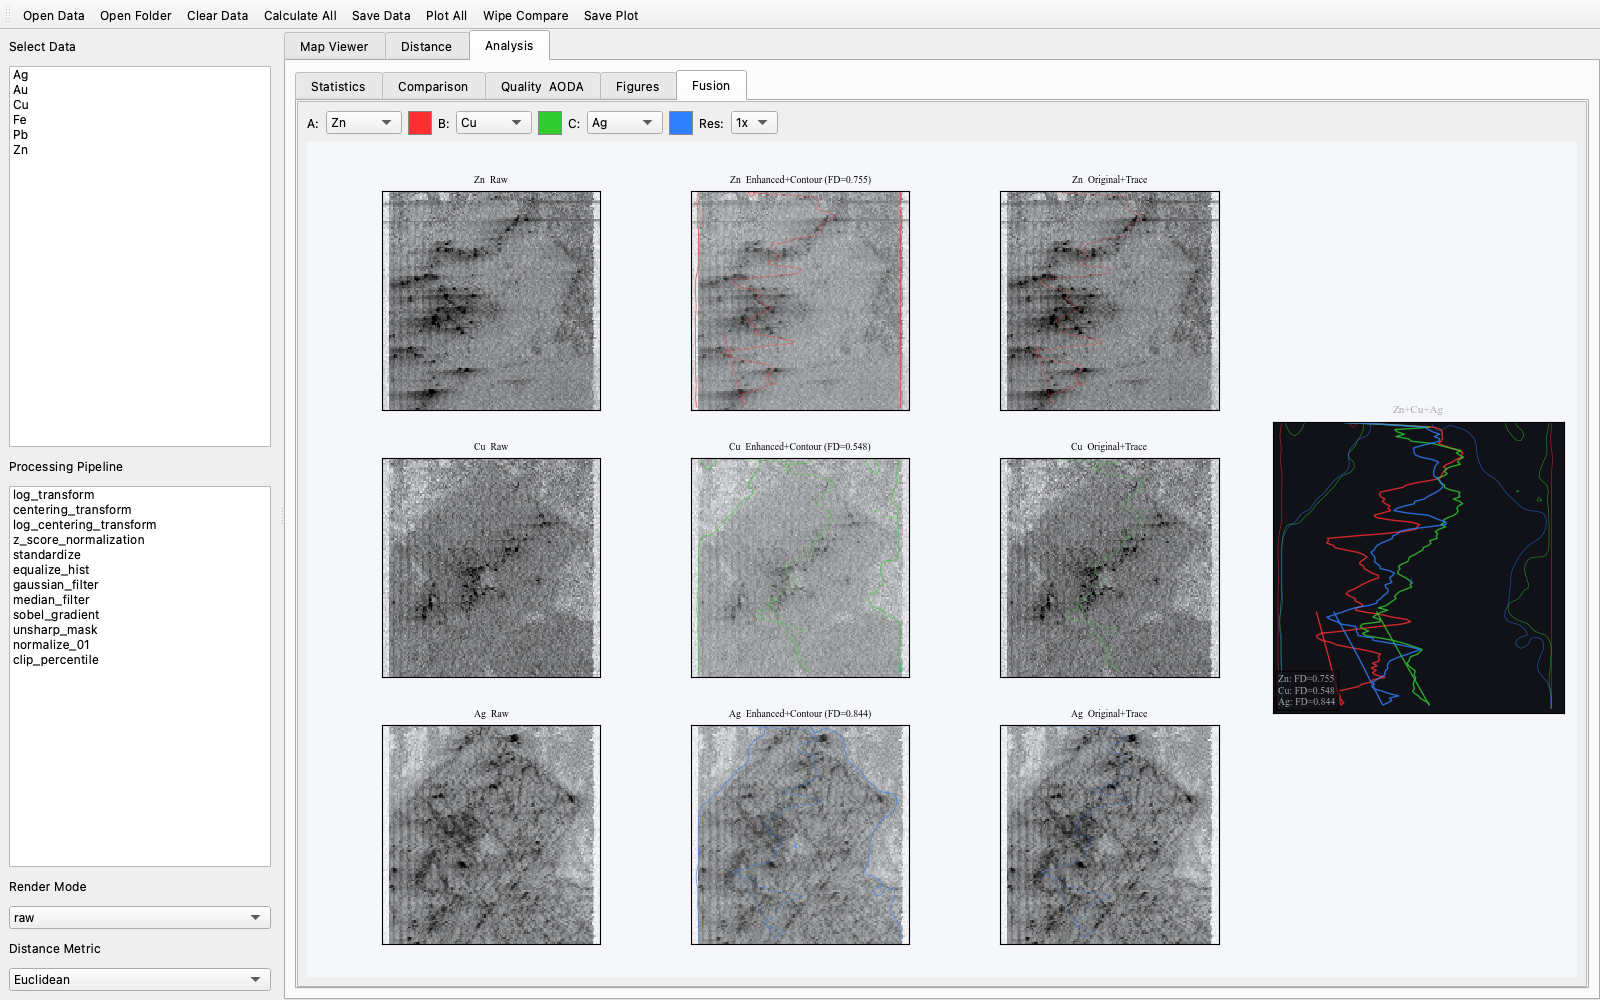
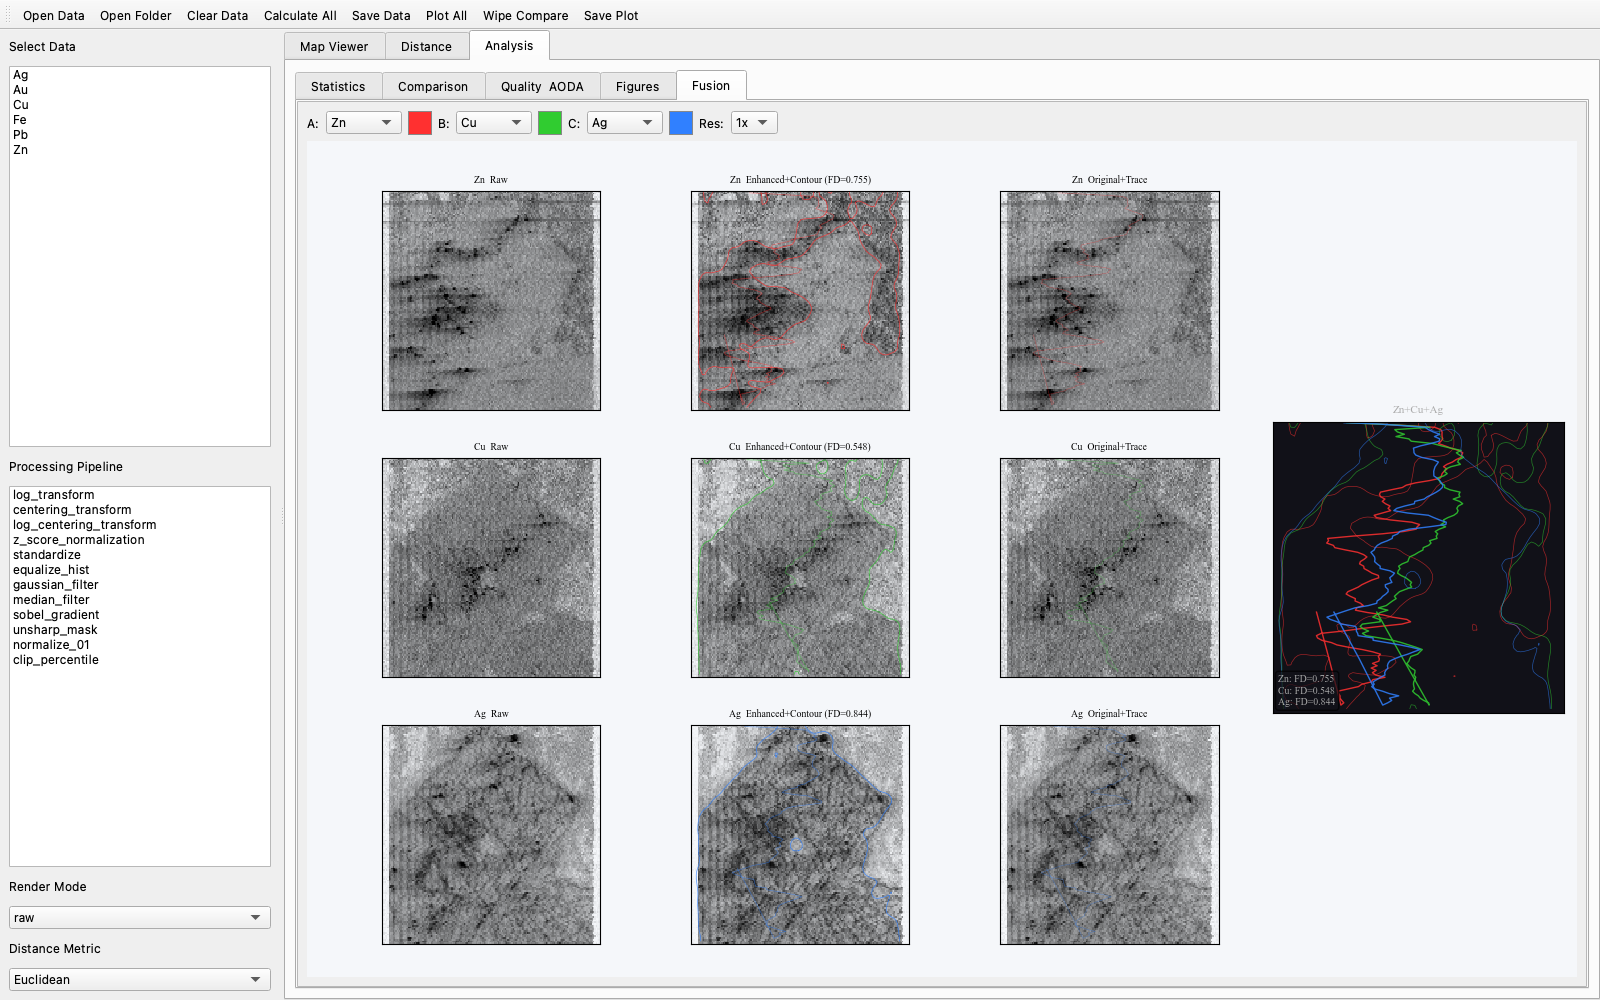
v1.6.6: Fusion - contour coords in V-space (zoom-proof) + log+equalize mid column
- Contours stored in V-space coords, scaled with zoom factor correctly
- Trajectory coords also zoom-scaled
- Middle column: log_transform + equalize_hist (paper's best pipeline)

diff --git a/cpsvisualizer/src/cpsvisualizer/app.py b/cpsvisualizer/src/cpsvisualizer/app.py
@@ -737,7 +737,7 @@ class CPSVisualizer(QMainWindow):
         if len(self.df_name_list) >= 2 and not self._fus_picks[1].currentText():
             self._fus_picks[1].setCurrentIndex(1)
     def _render_fusion(self):
-        from cpsvisualizer.core import log_transform
+        from cpsvisualizer.core import log_transform, equalize_hist
         from scipy.ndimage import sobel, gaussian_filter, zoom
         import re
         zf = int(self._fus_res.currentText().replace('x', ''))
@@ -753,16 +753,25 @@ class CPSVisualizer(QMainWindow):
                 else: break
             data = self.df_list[self.df_name_list.index(nm)].to_numpy().copy()
             raw = np.nan_to_num(data.astype(float), nan=0, posinf=0, neginf=0)
-            V = log_transform(raw)
+            # middle column enhancement: log + equalize (paper's best)
+            V = equalize_hist(log_transform(raw))
             V = (V - V.min()) / (V.max() - V.min() + 1e-10)
+            # Otsu contours on downsampled V, then convert to V-space coords
             from skimage.filters import threshold_otsu
             from skimage.measure import find_contours
             from scipy.ndimage import gaussian_filter as gf
-            ds_small = _downsample(V, 80, 80)
-            thresh = threshold_otsu(ds_small)
-            binary = (ds_small > thresh).astype(np.float64)
+            ds = _downsample(V, 80, 80)
+            thresh = threshold_otsu(ds)
+            binary = (ds > thresh).astype(np.float64)
             binary_sm = gf(binary, sigma=1.5)
-            contours = find_contours(binary_sm, level=0.5)
+            contours_ds = find_contours(binary_sm, level=0.5)
+            # convert to V-space coords (so zoom doesn't break them)
+            contours_v = []
+            for cnt in contours_ds:
+                cx = cnt[:, 1] * (V.shape[1] / ds.shape[1])
+                cy = cnt[:, 0] * (V.shape[0] / ds.shape[0])
+                contours_v.append(np.column_stack([cx, cy]))
+            # structural edges
             d2 = gaussian_filter(raw, sigma=1.0)
             E = np.hypot(sobel(d2, axis=0), sobel(d2, axis=1))
             E = (E - E.min()) / (E.max() - E.min() + 1e-10)
@@ -770,11 +779,14 @@ class CPSVisualizer(QMainWindow):
             if zf > 1:
                 raw = zoom(raw, zf, order=3); V = zoom(V, zf, order=3)
                 E = zoom(E, zf, order=3)
+                # scale contours & trace to match zoomed V
+                for c in contours_v:
+                    c[:, 0] *= zf; c[:, 1] *= zf
+                tx *= zf; ty *= zf
             self._fus_rows.append({
                 'name': nm, 'raw': raw, 'V': V, 'E': E,
                 'tx': tx, 'ty': ty, 'fd': fd,
-                'contours': contours, 'ds_h': ds_small.shape[0],
-                'ds_w': ds_small.shape[1],
+                'contours_v': contours_v,
             })
         self._render_fusion_display()
     def _compute_trajectory(self, data):
@@ -824,7 +836,7 @@ class CPSVisualizer(QMainWindow):
         colors = self._fus_colors
         for row_i in range(n_rows):
             r = self._fus_rows[row_i]
-            line_color = colors[row_i]
+            col = colors[row_i]
             for col_j in range(3):
                 ax = fig.add_subplot(gs[row_i, col_j])
                 ax.set_facecolor(FIG_BG)
@@ -838,31 +850,32 @@ class CPSVisualizer(QMainWindow):
                     arr_disp = _downsample(s, 180, 180)
                     ax.imshow(arr_disp, cmap=ink_colormap(), vmin=lo, vmax=hi,
                               aspect='auto', interpolation='nearest')
-                    sx = arr_disp.shape[1] / r['ds_w']
-                    sy = arr_disp.shape[0] / r['ds_h']
-                    for cnt in r['contours']:
-                        ax.plot(cnt[:, 1]*sx, cnt[:, 0]*sy,
-                                color=line_color, linewidth=0.6, alpha=0.7)
+                    # contours in V-space, scale to arr_disp
+                    sx = arr_disp.shape[1] / r['V'].shape[1]
+                    sy = arr_disp.shape[0] / r['V'].shape[0]
+                    for cnt in r['contours_v']:
+                        ax.plot(cnt[:, 0] * sx, cnt[:, 1] * sy,
+                                color=col, linewidth=0.5, alpha=0.85)
                     if len(r['tx']) > 2:
-                        tx_s = r['tx']*(arr_disp.shape[1]/r['V'].shape[1])
-                        ty_s = r['ty']*(arr_disp.shape[0]/r['V'].shape[0])
-                        ax.plot(tx_s, ty_s, color=line_color, linewidth=0.5, alpha=0.5)
+                        tx_s = r['tx'] * sx; ty_s = r['ty'] * sy
+                        ax.plot(tx_s, ty_s, color=col, linewidth=0.5, alpha=0.5)
                 else:
                     s, lo, hi = display_scale(r['raw'], 1, 99)
                     arr_disp = _downsample(s, 180, 180)
                     ax.imshow(arr_disp, cmap=ink_colormap(), vmin=lo, vmax=hi,
                               aspect='auto', interpolation='nearest')
                     if len(r['tx']) > 2:
-                        tx_s = r['tx']*(arr_disp.shape[1]/r['V'].shape[1])
-                        ty_s = r['ty']*(arr_disp.shape[0]/r['V'].shape[0])
-                        ax.plot(tx_s, ty_s, color=line_color, linewidth=0.5, alpha=0.4)
+                        sx = arr_disp.shape[1] / r['V'].shape[1]
+                        sy = arr_disp.shape[0] / r['V'].shape[0]
+                        ax.plot(r['tx']*sx, r['ty']*sy,
+                                color=col, linewidth=0.4, alpha=0.4)
                 ax.set_aspect(_square_aspect(*arr_disp.shape),
                               adjustable='box', anchor='C')
                 ttl = f'{r["name"]}  {cols[col_j]}'
                 if col_j == 1 and r['fd']: ttl += f' (FD={r["fd"]:.3f})'
                 ax.set_title(ttl, fontsize=7)
                 ax.set_xticks([]); ax.set_yticks([])
-        # Overlay: lines-only comparison (no background image)
+        # Overlay: lines-only comparison
         ax_ov = fig.add_subplot(gs[:, 3])
         ax_ov.set_facecolor('#111118')
         max_h = max(r['V'].shape[0] for r in self._fus_rows)
@@ -870,14 +883,10 @@ class CPSVisualizer(QMainWindow):
         ax_ov.set_xlim(0, max_w); ax_ov.set_ylim(max_h, 0)
         for row_i, r in enumerate(self._fus_rows):
             col = colors[row_i]
-            h, w = r['V'].shape[0], r['V'].shape[1]
-            sx_c = w / r['ds_w']; sy_c = h / r['ds_h']
-            for cnt in r['contours']:
-                ax_ov.plot(cnt[:, 1]*sx_c, cnt[:, 0]*sy_c,
-                           color=col, linewidth=0.5, alpha=0.6)
+            for cnt in r['contours_v']:
+                ax_ov.plot(cnt[:, 0], cnt[:, 1], color=col, linewidth=0.5, alpha=0.6)
             if len(r['tx']) > 2:
-                ax_ov.plot(r['tx'], r['ty'], color=col,
-                           linewidth=1.0, alpha=0.8)
+                ax_ov.plot(r['tx'], r['ty'], color=col, linewidth=1.0, alpha=0.85)
         ax_ov.set_aspect(_square_aspect(max_h, max_w),
                          adjustable='box', anchor='C')
         fd_lines = [f'{r["name"]}: FD={r["fd"]:.3f}' for r in self._fus_rows]

diff --git a/cpsvisualizer/src/setup.py b/cpsvisualizer/src/setup.py
@@ -15,7 +15,7 @@ except Exception:
 
 setup(
     name='cpsvisualizer',
-    version='1.6.5',
+    version='1.6.6',
     description='CPS-Visualizer: Visualization, similarity measurement, and statistical analysis of LA-ICP-MS surface scan data.',
     long_description=README,
     long_description_content_type='text/markdown',
